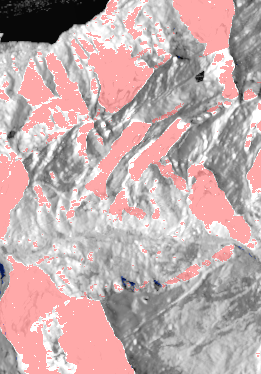
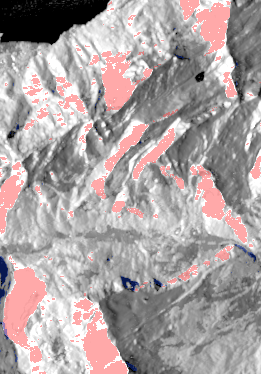
Docs: dry-run report and quicklooks for the selected passes

diff --git a/docs/validation_dry_run.md b/docs/validation_dry_run.md
@@ -2,23 +2,23 @@
 
 <!-- Generated by python -m validation.dry_run; do not edit by hand. -->
 
-Commit `15ab4b0` | 2026-10-11 02:34 UTC | 13th Gen Intel(R) Core(TM) i9-13900H (20 hardware threads) | Windows 10 | Clang 21.1.0, Release
+Commit `5174ee0` | 2026-10-11 19:39 UTC | 13th Gen Intel(R) Core(TM) i9-13900H (20 hardware threads) | Windows 10 | Clang 21.1.0, Release
 
 
-Real inputs: Copernicus GLO-30 (ellipsoidal via EGM2008), Sentinel-1A POEORB orbits, WorldCover 2021. Passes: ascending 2024-08-14T17:15:51 UTC, descending 2024-08-18T05:35:49 UTC. References are synthetic stand-ins with known answers (see `validation/dry_run.py`); these numbers test the pipeline, not the simulator.
+Real inputs: Copernicus GLO-30 (ellipsoidal via EGM2008), Sentinel-1A POEORB orbits, WorldCover 2021. Passes: ascending 2024-08-19T17:24:01 UTC, descending 2024-08-18T05:35:49 UTC. References are synthetic stand-ins with known answers (see `validation/dry_run.py`); these numbers test the pipeline, not the simulator.
 
 ## Per tile and pass
 
 | Pass | Tile | Relief | Layover | Shadow | Identity: G1 / G2 / G3 / L1 | Perturbed: G1 / G2 / G3 / L1 (expect L1 = (+1, +2)) | Exclusions | Time |
 |---|---|---|---|---|---|---|---|---|
-| ascending | N46.60_E007.80 | 2027 m | 18.7% | 0.7% | 1.000 / 1.000 / 0.920 / (+0.00, -0.00) | 0.726 / 0.307 / 0.900 / (+1.00, +2.01) | none | 9.8 s |
-| ascending | N46.60_E007.90 | 2105 m | 27.3% | 0.2% | 1.000 / 1.000 / 0.962 / (-0.00, +0.00) | 0.731 / 0.235 / 0.898 / (+1.00, +2.00) | none | 7.4 s |
-| ascending | N46.70_E007.80 | 1610 m | 12.8% | 0.1% | 1.000 / 1.000 / 1.000 / (-0.00, -0.00) | 0.591 / 0.089 / 0.998 / (+0.99, +2.00) | none | 2.3 s |
-| ascending | N46.70_E007.90 | 1629 m | 6.8% | 0.0% | 1.000 / 1.000 / 0.792 / (-0.00, +0.00) | 0.483 / 0.000 / 0.716 / (+0.99, +2.00) | none | 4.1 s |
-| descending | N46.60_E007.80 | 2027 m | 7.2% | 2.8% | 1.000 / 1.000 / 0.946 / (+0.00, +0.00) | 0.519 / 0.332 / 0.865 / (+1.01, +2.00) | none | 17.8 s |
-| descending | N46.60_E007.90 | 2105 m | 1.9% | 5.0% | 1.000 / 1.000 / 0.953 / (-0.00, +0.00) | 0.354 / 0.386 / 0.869 / (+1.01, +1.98) | none | 6.2 s |
-| descending | N46.70_E007.80 | 1610 m | 3.0% | 2.1% | 1.000 / 1.000 / 0.984 / (+0.00, -0.00) | 0.383 / 0.367 / 0.925 / (+1.00, +2.00) | none | 5.5 s |
-| descending | N46.70_E007.90 | 1629 m | 6.1% | 0.7% | 1.000 / 1.000 / 0.828 / (+0.00, +0.00) | 0.497 / 0.174 / 0.761 / (+1.00, +2.00) | none | 2.9 s |
+| ascending | N46.60_E007.80 | 2027 m | 6.8% | 2.2% | 1.000 / 1.000 / 0.941 / (-0.00, +0.00) | 0.590 / 0.426 / 0.908 / (+1.00, +2.03) | none | 3.5 s |
+| ascending | N46.60_E007.90 | 2105 m | 12.3% | 0.7% | 1.000 / 1.000 / 0.884 / (-0.00, -0.00) | 0.610 / 0.339 / 0.840 / (+1.01, +2.00) | none | 2.8 s |
+| ascending | N46.70_E007.80 | 1610 m | 4.3% | 0.4% | 1.000 / 1.000 / 0.997 / (+0.00, -0.00) | 0.484 / 0.297 / 0.949 / (+0.99, +2.00) | none | 3.4 s |
+| ascending | N46.70_E007.90 | 1629 m | 1.3% | 0.5% | 1.000 / 1.000 / 0.824 / (+0.00, +0.00) | 0.242 / 0.104 / 0.745 / (+0.99, +2.00) | none | 2.7 s |
+| descending | N46.60_E007.80 | 2027 m | 7.2% | 2.8% | 1.000 / 1.000 / 0.946 / (+0.00, +0.00) | 0.519 / 0.332 / 0.865 / (+1.01, +2.00) | none | 2.3 s |
+| descending | N46.60_E007.90 | 2105 m | 1.9% | 5.0% | 1.000 / 1.000 / 0.953 / (-0.00, +0.00) | 0.354 / 0.386 / 0.869 / (+1.01, +1.98) | none | 2.8 s |
+| descending | N46.70_E007.80 | 1610 m | 3.0% | 2.1% | 1.000 / 1.000 / 0.984 / (+0.00, -0.00) | 0.383 / 0.367 / 0.925 / (+1.00, +2.00) | none | 2.3 s |
+| descending | N46.70_E007.90 | 1629 m | 6.1% | 0.7% | 1.000 / 1.000 / 0.828 / (+0.00, +0.00) | 0.497 / 0.174 / 0.761 / (+1.00, +2.00) | none | 3.0 s |
 
 Per-class correlation in the identity check (should be 1.000 wherever a class has enough pure 90 m blocks):
 
@@ -39,10 +39,10 @@ Simulation against itself shifted by one 30 m cell east (well within the L1 thre
 
 | Pass | Tile | Layover IoU | Layover F1 | Shadow IoU | Shadow F1 |
 |---|---|---|---|---|---|
-| ascending | N46.60_E007.80 | 0.850 | 0.997 | 0.462 | 0.995 |
-| ascending | N46.60_E007.90 | 0.850 | 1.000 | 0.357 | 1.000 |
-| ascending | N46.70_E007.80 | 0.769 | 0.999 | 0.264 | 1.000 |
-| ascending | N46.70_E007.90 | 0.700 | 0.997 | 0.086 | 1.000 |
+| ascending | N46.60_E007.80 | 0.778 | 0.994 | 0.617 | 0.994 |
+| ascending | N46.60_E007.90 | 0.782 | 1.000 | 0.494 | 1.000 |
+| ascending | N46.70_E007.80 | 0.705 | 1.000 | 0.501 | 1.000 |
+| ascending | N46.70_E007.90 | 0.555 | 0.987 | 0.264 | 1.000 |
 | descending | N46.60_E007.80 | 0.718 | 0.996 | 0.587 | 0.993 |
 | descending | N46.60_E007.90 | 0.598 | 1.000 | 0.614 | 1.000 |
 | descending | N46.70_E007.80 | 0.629 | 0.999 | 0.612 | 0.999 |
@@ -54,10 +54,10 @@ Opposite look directions should put layover on opposite slopes, so the overlap o
 
 | Tile | Layover IoU (asc vs. desc) | Layover asc | Layover desc |
 |---|---|---|---|
-| N46.60_E007.80 | 0.009 | 18.7% | 7.2% |
-| N46.60_E007.90 | 0.014 | 27.3% | 1.9% |
-| N46.70_E007.80 | 0.002 | 12.8% | 3.0% |
-| N46.70_E007.90 | 0.001 | 6.8% | 6.1% |
+| N46.60_E007.80 | 0.002 | 6.8% | 7.2% |
+| N46.60_E007.90 | 0.005 | 12.3% | 1.9% |
+| N46.70_E007.80 | 0.000 | 4.3% | 3.0% |
+| N46.70_E007.90 | 0.000 | 1.3% | 6.1% |
 
 ## SNAP-format round trip (pooled over tiles)
 
@@ -65,22 +65,22 @@ Simulation written as a SNAP-style GeoTIFF and read back through `evaluate.load_
 
 | Pass | Tiles kept | G1 IoU / F1 | G2 IoU / F1 | G3 AUC | L1 median offset |
 |---|---|---|---|---|---|
-| ascending | 4 of 4 | 1.000 / 1.000 | 1.000 / 1.000 | 0.920 | (-0.00, +0.00) |
+| ascending | 4 of 4 | 1.000 / 1.000 | 1.000 / 1.000 | 0.922 | (-0.00, +0.00) |
 | descending | 4 of 4 | 1.000 / 1.000 | 1.000 / 1.000 | 0.935 | (-0.00, -0.00) |
 
 ## Fitting: parameter recovery
 
-A synthetic "real" image rendered from a truth table (three classes changed, 4-look speckle per 30 m cell) is fitted from the starting table with `validation.fit` (single-bounce basis plus re-rendered multi-bounce part, interior 90 m blocks without layover or shadow, median-absolute-dB objective). Recovered means |n - n_true| <= 0.15 and k within 10%.
+A synthetic "real" image rendered from a truth table (three classes changed, 4-look speckle per 30 m cell) is fitted from the starting table with `validation.fit` (single-bounce basis plus re-rendered multi-bounce part, interior 90 m blocks without layover or shadow, median-absolute-dB objective). Recovered means |n - n_true| <= 0.15 and k within 10%; or, where the data cannot constrain n (objective rises by less than 0.1 dB at n +- 0.5, e.g. a flat lake seen over a few degrees of incidence), that the fitted parameters predict the same backscatter as the true ones to within 0.1 dB.
 
-| Class | Blocks | Truth k / n | Start k / n | Fitted k / n | Recovered? |
-|---|---|---|---|---|---|
-| 10 tree_cover | 15122 | 0.3 / 0.40 | 0.25 / 0.60 | 0.294 / 0.39 | yes |
-| 30 grassland | 14039 | 0.2 / 1.30 | 0.12 / 1.50 | 0.197 / 1.30 | yes |
-| 50 concrete | 72 | 0.06 / 1.50 | 0.06 / 1.50 | kept (too few blocks) | n/a |
-| 60 bare_rock | 1387 | 0.07 / 2.40 | 0.1 / 2.00 | 0.0718 / 2.49 | yes |
-| 80 water | 6088 | 0.003 / 2.00 | 0.003 / 2.00 | 0.003 / 1.94 | yes |
-| 100 moss_lichen | 9 | 0.08 / 2.00 | 0.08 / 2.00 | kept (too few blocks) | n/a |
+| Class | Blocks | Truth k / n | Start k / n | Fitted k / n | n constrained? (objective rise at n +- 0.5) | Prediction vs. truth (median abs.) | Recovered? |
+|---|---|---|---|---|---|---|---|
+| 10 tree_cover | 16760 | 0.3 / 0.40 | 0.25 / 0.60 | 0.298 / 0.40 | yes (0.17 dB) | 0.023 dB | yes |
+| 30 grassland | 14729 | 0.2 / 1.30 | 0.12 / 1.50 | 0.196 / 1.28 | weakly (0.08 dB) | 0.045 dB | yes |
+| 50 concrete | 72 | 0.06 / 1.50 | 0.06 / 1.50 | kept (too few blocks) | | | n/a |
+| 60 bare_rock | 1551 | 0.07 / 2.40 | 0.1 / 2.00 | 0.0699 / 2.43 | weakly (0.07 dB) | 0.047 dB | yes |
+| 80 water | 6090 | 0.003 / 2.00 | 0.003 / 2.00 | 0.00356 / 2.52 | weakly (0.00 dB) | 0.060 dB | yes: k and n degenerate, predictions agree |
+| 100 moss_lichen | 9 | 0.08 / 2.00 | 0.08 / 2.00 | kept (too few blocks) | | | n/a |
 
-Fit stage: 99 s.
+Fit stage: 89 s.
 
-Self-consistency checks: **PASS**. Total time 157 s.
+Self-consistency checks: **PASS**. Total time 114 s.
